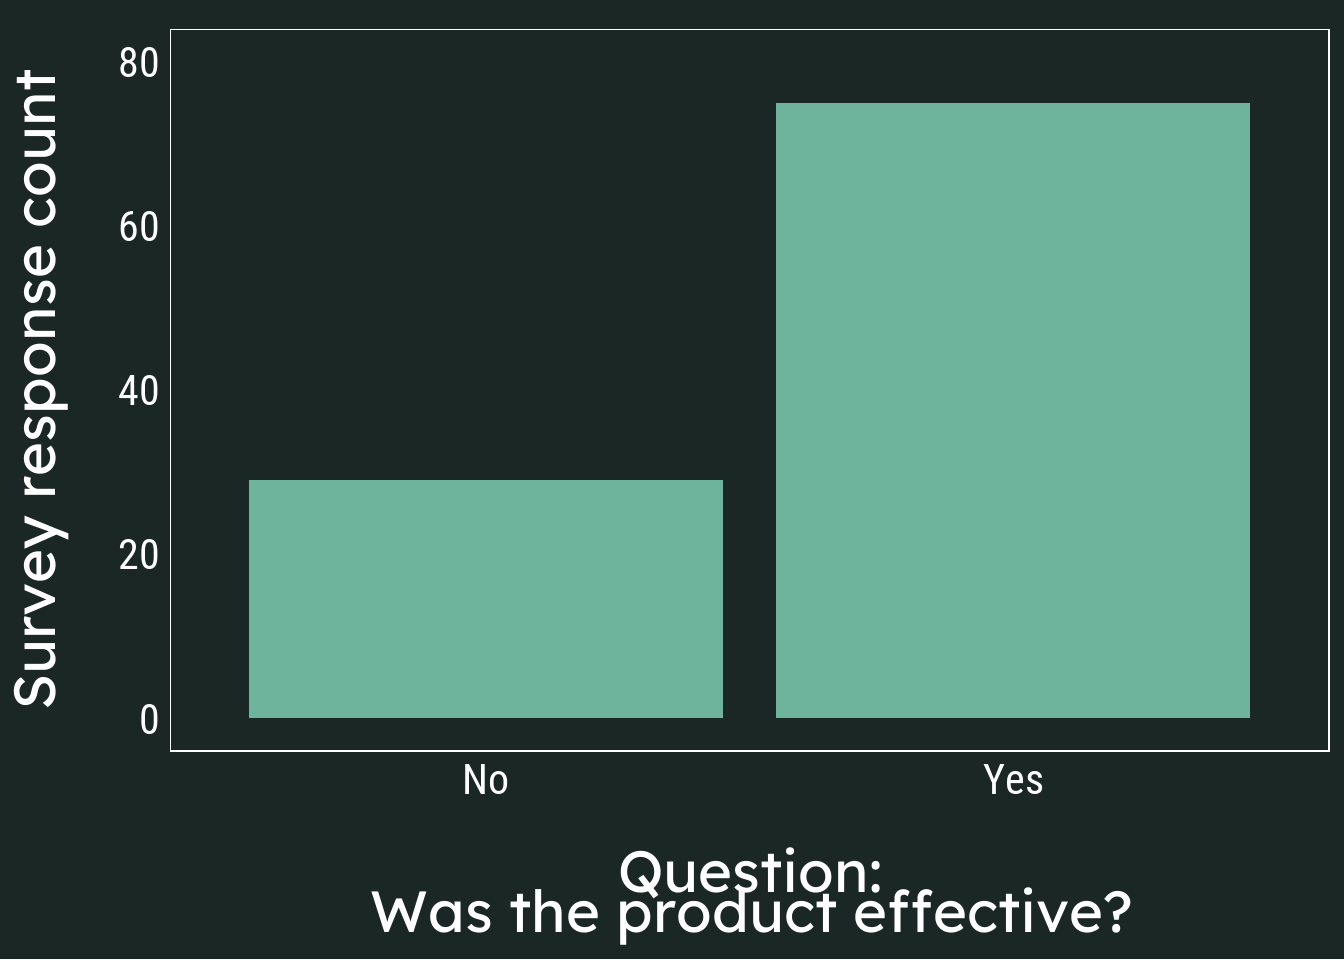
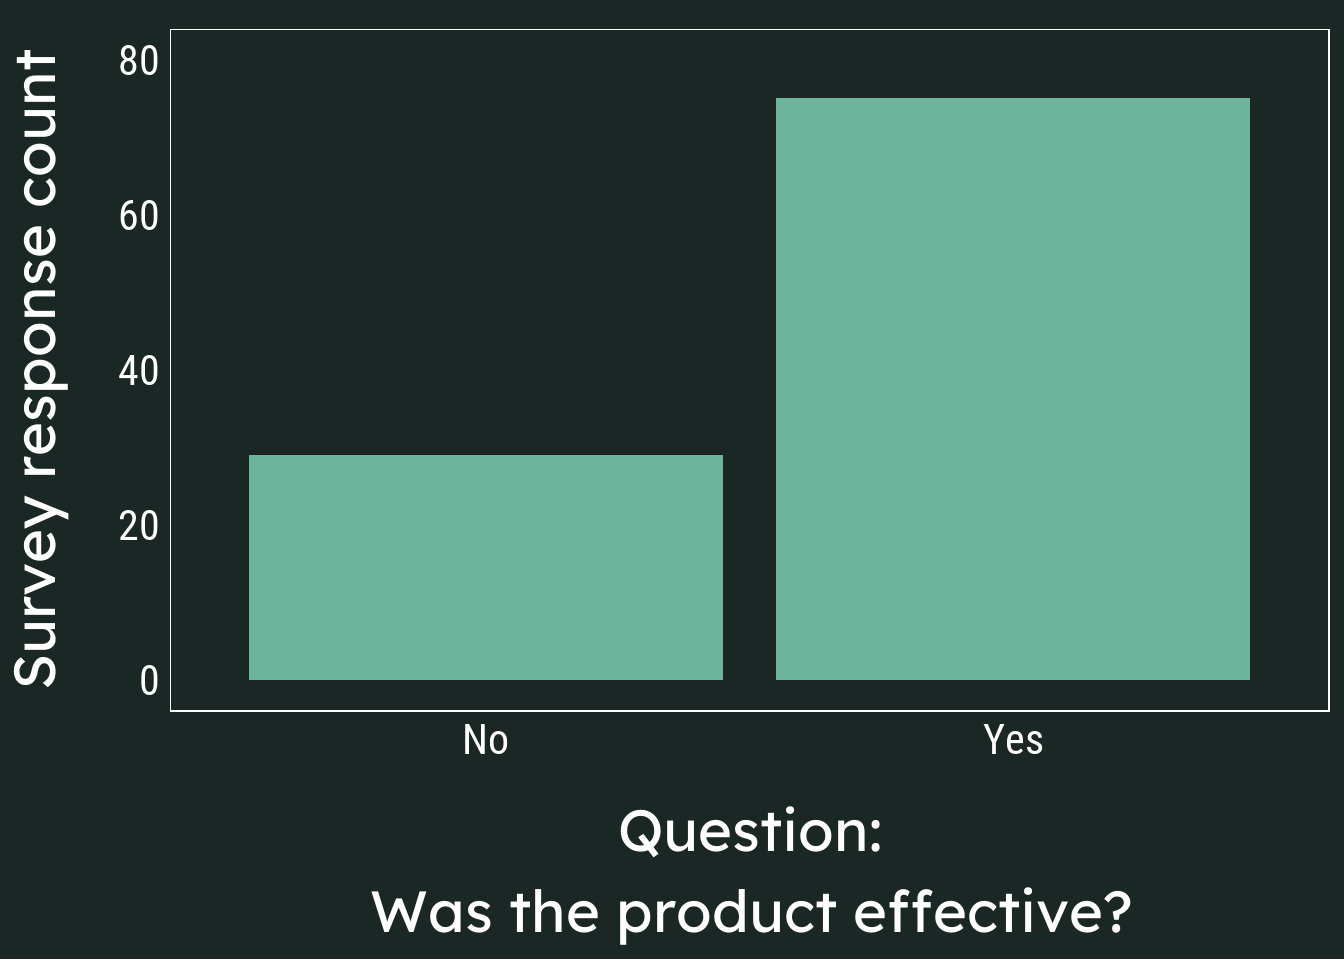
Figure final drafts, code blocks and captions added.

diff --git a/vale-page/content/project/two/index.md b/vale-page/content/project/two/index.md
@@ -1,5 +1,5 @@
 ---
-date: "2022-12-1T00:00:00Z"
+date: "2022-12-01T00:00:00Z"
 external_link: ""
 image:
   focal_point: Smart
@@ -15,15 +15,28 @@ reading_time: false
 
 
 
+<style>
+p.caption {
+  font-size: 0.8em;
+  padding: 0px 0px 40px 0px;
+}
+</style>
+
 ## Data sourcing
 
 Our client suspected extraordinarily high and low temperatures would impact the performance of their agrochemical used in citrus.
 
-Consumer survey data provided by the client included GPS coordinates for all orchards and date of application. Importantly, this included a record of when the product succeeded or failed.
+Consumer survey data provided by the client included GPS coordinates for all orchards and date of application. Importantly, this included a record of when the product succeeded or failed (Figure 1).
 
-<img src="{{< blogdown/postref >}}index_files/figure-html/bar-1.png" width="672" />
+<div class="figure">
+<img src="{{< blogdown/postref >}}index_files/figure-html/bar-1.png" alt="Overall results from end-user survey on agrochemical success following product application." width="672" />
+<p class="caption">Figure 1: Overall results from end-user survey on agrochemical success following product application.</p>
+</div>
+<br>
 
-To understand where the products were failing 25% of the time, we gathered data from local weather stations located within a few miles of each orchard. To do so, we programmed a data pipeline that draws historical data based on latitude, longitude, and Julian date to automatically provide the daily max temperature (highest recorded temperature that day).
+To understand where the products were failing 25% of the time, we gathered data from local weather stations located within a few miles of each orchard.
+
+To do so, we programmed a data pipeline that draws historical data based on latitude, longitude, and Julian date to automatically provide the daily max temperature (highest recorded temperature that day). Here's a snippet of what we did:
 
 
 ```r
@@ -39,10 +52,13 @@ ad <- ad_raw%>%
 
 ## So what was the impact of daily temperature?
 #### Overall results
-Product performance was impacted by higher temperatures (Figure 1).
+Product performance was impacted by higher temperatures (Figure 2).
 
-<img src="{{< blogdown/postref >}}index_files/figure-html/all-1.png" width="672" />
-(Figure 1: Good result combining the data)
+<div class="figure">
+<img src="{{< blogdown/postref >}}index_files/figure-html/all-1.png" alt="Probability of agrochemical product success in response to daily maximum temperatures, across all farms. High temperatures significantly impacted product performance (p &lt; 0.001). The product fell below the client's key success rate of 75% (horizontal line) once temperatures exceeded 80F. Each point represents a survey response. Shaded region indicates uncertainty: tighter shading indicates higher confidence." width="672" />
+<p class="caption">Figure 2: Probability of agrochemical product success in response to daily maximum temperatures, across all farms. High temperatures significantly impacted product performance (p < 0.001). The product fell below the client's key success rate of 75% (horizontal line) once temperatures exceeded 80F. Each point represents a survey response. Shaded region indicates uncertainty: tighter shading indicates higher confidence.</p>
+</div>
+<br>
 
 The simplest way to interpret these models is that steep, s-shaped curve is a strong correlation, while a flatter curve is a weak correlation. Each dot represents a piece of data collected in the consumer survey.
 
@@ -50,18 +66,21 @@ Our conclusion was clear. Hot days cause product failure - on days that reach hi
 
 However, our client was concerned these results didn’t hold true in all locations. The climate of the two states surveyed vary by a lot more than daily temperatures.
 
-
 #### West coast results
-You can see that in farms from California there is a strong ‘S’ shaped curve (Figure 2), indicating a sharp temperature threshold at 35.6C (XXF). We concluded that product recommendations should change in California and to tell growers to avoid using this agrochemical on hot days.
+You can see that in farms from California there is a strong ‘S’ shaped curve (Figure 3), indicating a sharp temperature threshold at 35.6C (XXF). We concluded that product recommendations should change in California and to tell growers to avoid using this agrochemical on hot days.
 
-<img src="{{< blogdown/postref >}}index_files/figure-html/cali-1.png" width="672" />
-(Figure 2: Great result just focusing on California)
+<div class="figure">
+<img src="{{< blogdown/postref >}}index_files/figure-html/cali-1.png" alt="Probability of agrochemical product success in response to daily maximum temperatures on farms in California only. High temperatures significantly impacted product performance (p &lt; 0.001). The product fell below the client's key success rate of 75% (horizontal line) once temperatures exceeded 86F. Each point represents a survey response. Shaded region indicates uncertainty: tighter shading indicates higher confidence." width="672" />
+<p class="caption">Figure 3: Probability of agrochemical product success in response to daily maximum temperatures on farms in California only. High temperatures significantly impacted product performance (p < 0.001). The product fell below the client's key success rate of 75% (horizontal line) once temperatures exceeded 86F. Each point represents a survey response. Shaded region indicates uncertainty: tighter shading indicates higher confidence.</p>
+</div>
 
 #### East coast results
 However, Floridian farms produced a flatter curve (Figure 3), suggesting that temperature only weakly predicted product success or failure. Something else was causing product failure at in this region.
 
-<img src="{{< blogdown/postref >}}index_files/figure-html/fl-1.png" width="672" />
-(Figure 3: mediocre result from Florida)
+<div class="figure">
+<img src="{{< blogdown/postref >}}index_files/figure-html/fl-1.png" alt="Probability of agrochemical product success in response to daily maximum temperatures on farms in Florida only. Here we found not strong statistical impact of temperature on agrochemical performance (p = 0.82), with product success rate steady at around 75%. Each point represents a survey response. Shaded region indicates uncertainty: tighter shading indicates higher confidence." width="672" />
+<p class="caption">Figure 4: Probability of agrochemical product success in response to daily maximum temperatures on farms in Florida only. Here we found not strong statistical impact of temperature on agrochemical performance (p = 0.82), with product success rate steady at around 75%. Each point represents a survey response. Shaded region indicates uncertainty: tighter shading indicates higher confidence.</p>
+</div>
 
 ## Our take-home message
 
@@ -76,43 +95,19 @@ For this project, we are developing a pipeline to pull all photographs in a 1-5k
 
 
 ```r
-# get max / min temps 
-all_temps <- map_dfr(1:length(near_stats), ~ {
+# function to fetch cloud cover data
+get_cc <- function(buffer) {
   
-  print(.x)
+  recs <- get_records(
+                 time_range = as.character(c(buffer$app_date - 7, buffer$app_date)), 
+                 products = get_cloudcov_supported()[5:6], # Sentinel
+                 aoi = buffer$geometry, 
+                 as_sf = FALSE)
+  clouds <- calc_cloudcov(recs, aoi = buffer$geometry, 
+                          write_records = FALSE, write_cloud_masks = FALSE, 
+                          dir_out = "data/cloud-cover/")
   
-  # set while conditions 
-  i <- 1 # weather station (1 = nearest, 2 = second nearest, ...)
-  rec_ind <- FALSE # indicator of records in output
-  
-  # loop to find nearest weather station with temp data
-  while(!rec_ind) {
-    near_ids <- map_chr(near_stats[.x], ~ .x %>% slice(i) %>% pull(id))
-    ad_ids <- ad %>%
-      bind_cols(near_id = near_ids) 
-    
-    out_row <- ghcnd(ad_ids$near_id[.x], 
-                     date_min = parse_date(ad_ids$app_date[.x], format = "%m/%d/%y"), 
-                     date_max = parse_date(ad_ids$app_date[.x], format = "%m/%d/%y"),
-                     var = c("TMAX", "TMIN")) %>%
-    select(id, year, month, element, starts_with("VALUE")) %>%
-    filter(element %in% c("TMAX", "TMIN")) %>%
-    pivot_longer(starts_with("VALUE"), names_to = "day", values_to = "temp_C") %>%
-    mutate(across(day, ~ as.integer(str_sub(.x, 6, nchar(.x)))), 
-           across(temp_C, ~ .x / 10)) %>%
-    pivot_wider(names_from = "element", values_from = "temp_C") %>%
-    mutate(dt = parse_date(paste0(year, "-", 
-                                  str_pad(month, 2, "left", "0"), "-", 
-                                  str_pad(day,   2, "left", "0"))), 
-           index = str_pad(.x, 3, "left", "0")) %>%
-    filter(dt == ad_ids$app_date[.x])
-    
-    # update while conditions
-    rec_ind <- ifelse(nrow(out_row) == 1, 
-                      ifelse(!is.na(out_row$TMAX) & !is.na(out_row$TMIN), TRUE, FALSE), FALSE)
-    i <- i + 1
-  }
-  return(out_row)
+  clouds %>%
+    write_csv(file = paste0("data/cover-dfs-new/", buffer$id, "_cloud_cover.csv"))
 }
-)
 ```
